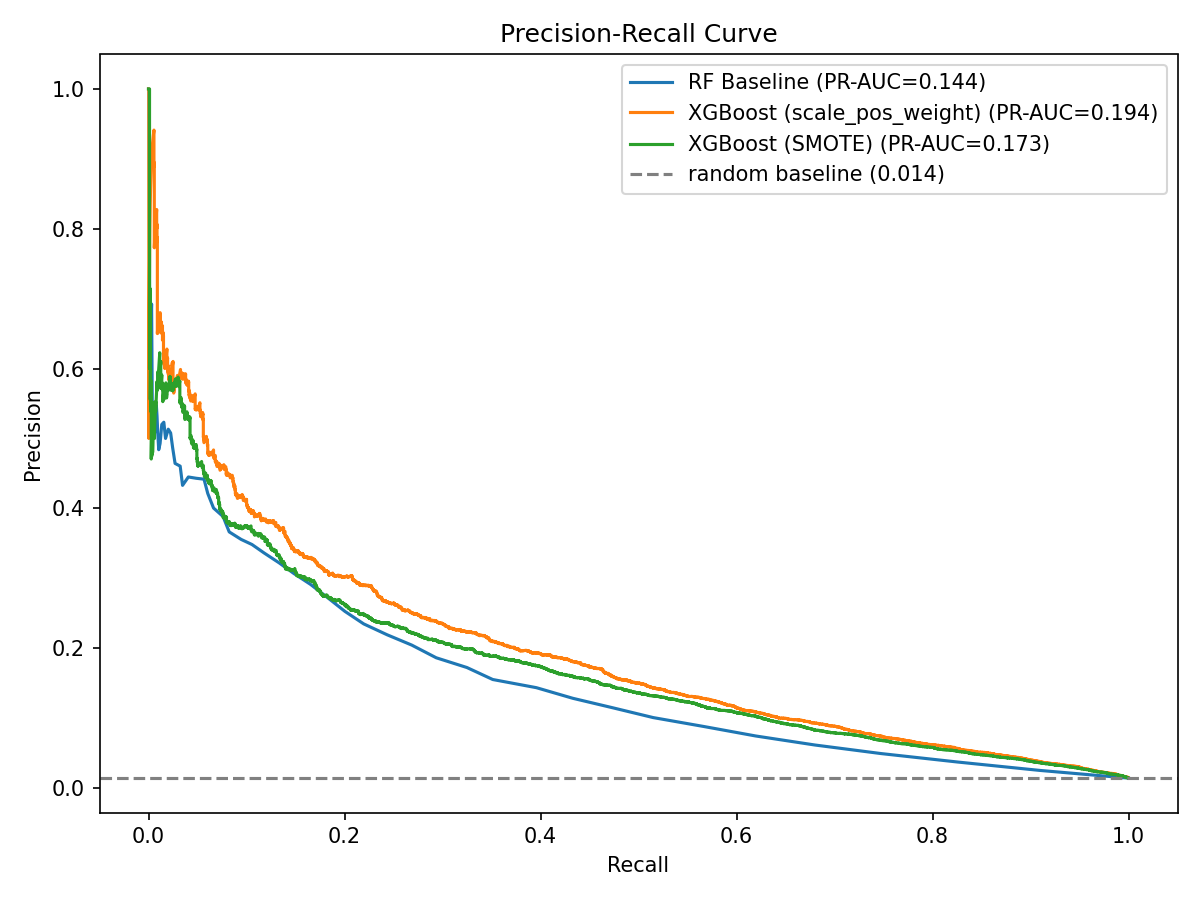
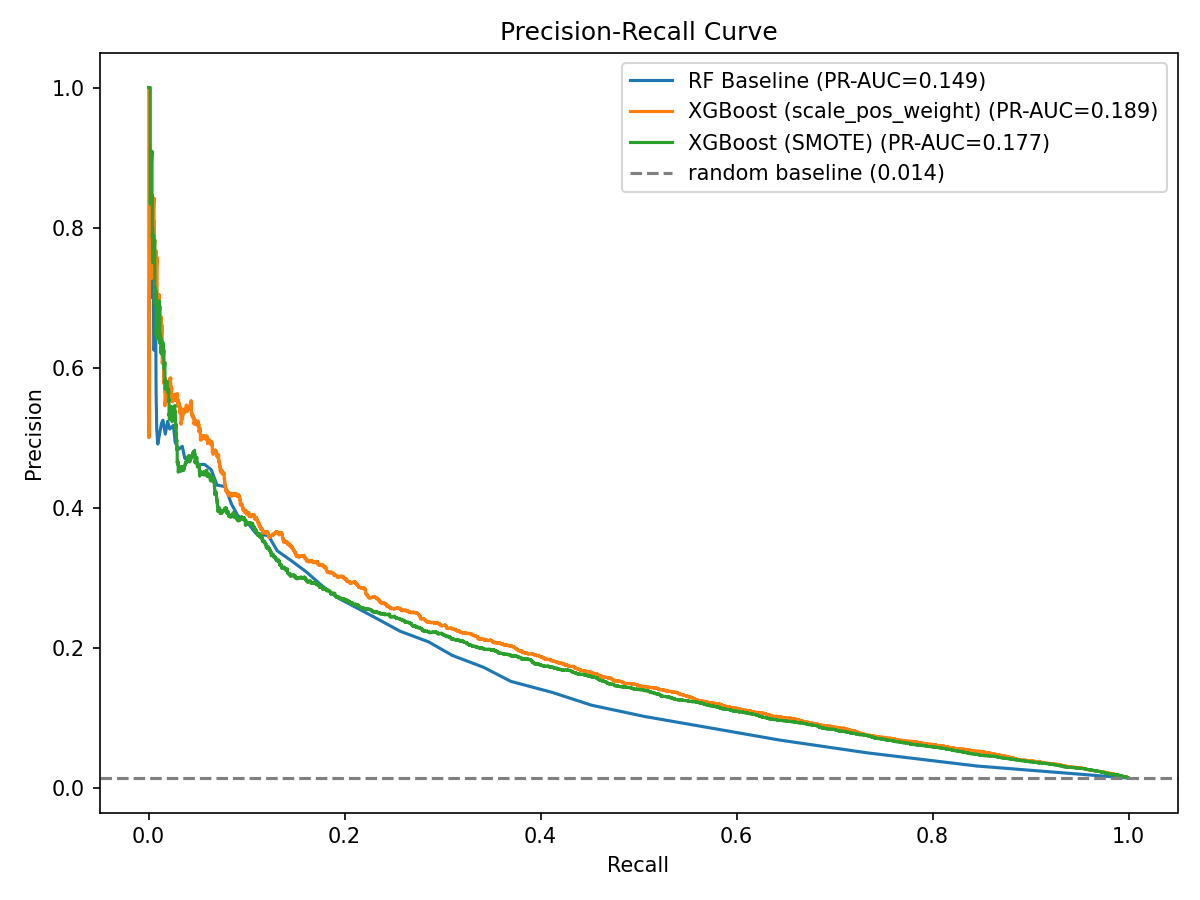
remove uninterpretable features — velocity, zip_count, bank_branch, device_fraud — retrain and regenerate all outputs

Changed region(s): [[0.4008, 0.0311, 0.9558, 0.2178], [0.1233, 0.1556, 0.925, 0.8711], [0.0, 0.4356, 0.0308, 0.5289]]

diff --git a/main/code/src/preprocess.py b/main/code/src/preprocess.py
@@ -5,6 +5,15 @@
 # Saves the fitted scaler and the four split CSVs so other notebooks
 # can just load them directly without re-running this.
 #
+# Columns dropped before training — synthetic/uninterpretable values:
+#   velocity_6h, velocity_24h, velocity_4w  — perturbed synthetic values with
+#     inverted order (6h mean > 4w mean) and negative values. Not interpretable.
+#   velocity_ratio                          — engineered from velocity, goes with them.
+#   zip_count_4w                            — up to 6,700 per zip, clearly synthetic.
+#   bank_branch_count_8w                    — up to 2,385 visits in 8 weeks, impossible.
+#   device_fraud_count                      — entire column is 0. No signal.
+#   is_dirty_device                         — derived from device_fraud_count, also all 0.
+#
 # run from main/code/: python src/preprocess.py
 
 import os
@@ -16,6 +25,12 @@ SENTINEL_COLS    = ["prev_address_months_count", "current_address_months_count",
 CATEGORICAL_COLS = ["payment_type", "employment_status", "housing_status", "device_os", "source"]
 SCALE_COLS       = ["days_since_request", "session_length_in_minutes", "intended_balcon_amount"]
 TARGET           = "fraud_bool"
+
+# features dropped — synthetic perturbed values with no interpretable meaning
+DROP_COLS = [
+    "velocity_6h", "velocity_24h", "velocity_4w",
+    "zip_count_4w", "bank_branch_count_8w", "device_fraud_count",
+]
 
 
 class FraudPreprocessor:
@@ -46,16 +61,20 @@ class FraudPreprocessor:
 
         return {"nan_counts": nan_cols.to_dict(), "sentinel_counts": sentinel_counts}
 
+    def drop_uninterpretable(self, df):
+        cols = [c for c in DROP_COLS if c in df.columns]
+        df = df.drop(columns=cols)
+        print(f"dropped {len(cols)} uninterpretable columns: {cols}")
+        return df
+
     def engineer_features(self, df):
         df = df.copy()
 
         # -1 means the field wasn't provided, treat as a flag
-        df["has_prev_address"]      = (df["prev_address_months_count"] != -1).astype(int)
-        df["is_dirty_device"]       = (df["device_fraud_count"] > 0).astype(int)
+        df["has_prev_address"]       = (df["prev_address_months_count"] != -1).astype(int)
 
-        # short-window vs long-window velocity
-        df["velocity_ratio"]        = df["velocity_6h"] / (df["velocity_4w"] + 1)
-        df["credit_to_income_ratio"]= df["proposed_credit_limit"] / (df["income"] + 1)
+        # credit limit requested relative to income
+        df["credit_to_income_ratio"] = df["proposed_credit_limit"] / (df["income"] + 1)
 
         return df
 
@@ -96,6 +115,7 @@ class FraudPreprocessor:
     def run(self, filepath, save=True):
         df = self.load(filepath)
         self.audit(df)
+        df = self.drop_uninterpretable(df)
         df = self.engineer_features(df)
         df = self.encode_categoricals(df)
 
